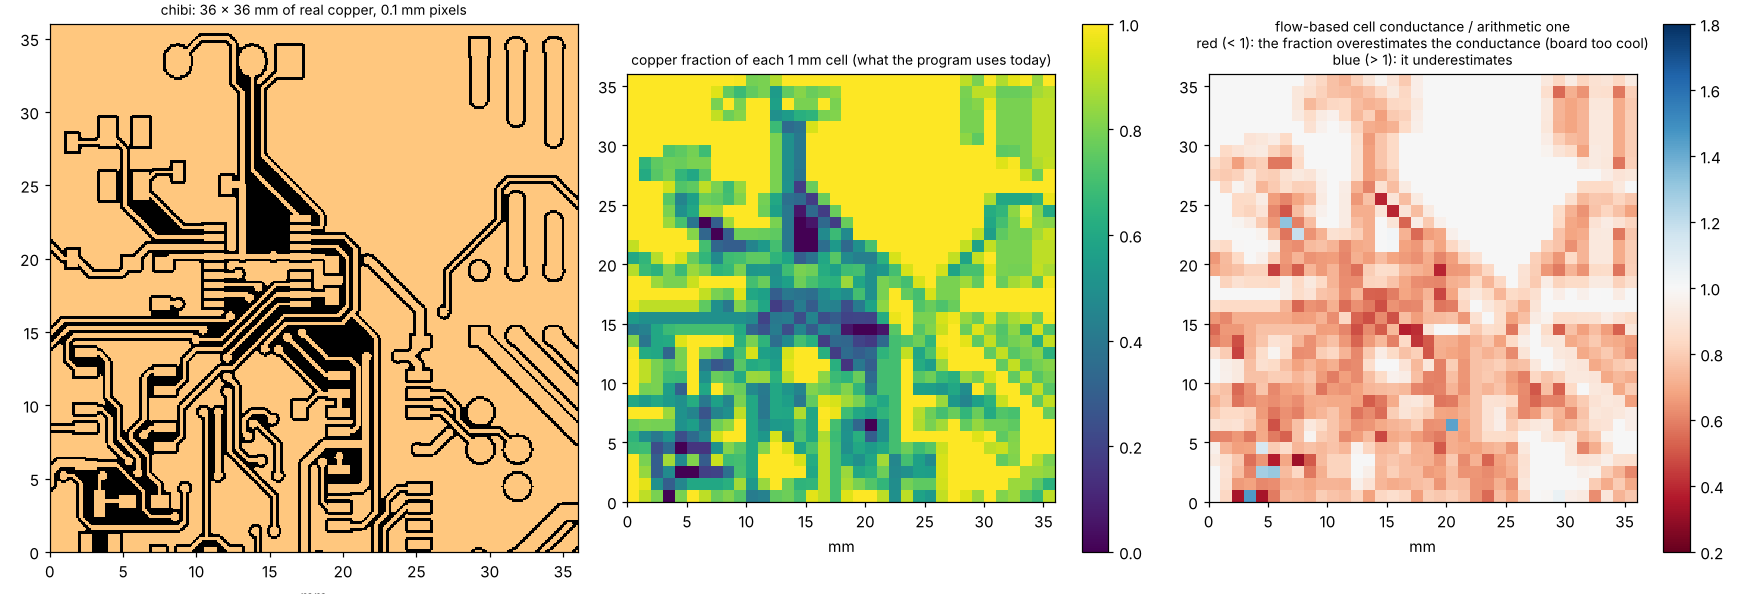
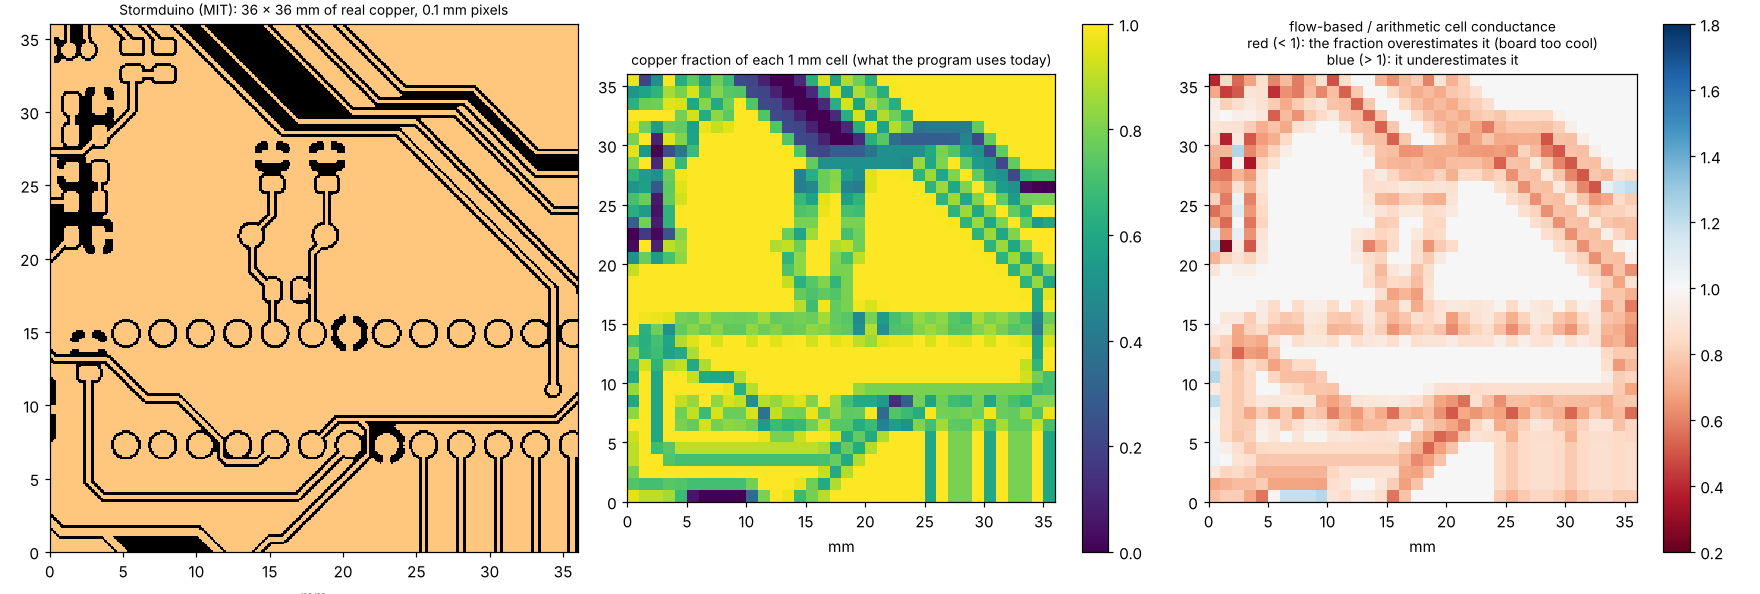
Replace figures 02 and 03 with renders of our own board and an MIT board
Figure 02 now draws a synthetic Gerber of our own with X2 net attributes;
figure 03 uses a window of the MIT-licensed Stormduino board. The
gerbonara test boards (charliewatch-v2, chibi) had licences that could
not be confirmed, so no picture of them is kept. The licence notes in the
README files are updated.

Claude-Session: https://claude.ai/code/session_019ZX1Fbuj3xr3RpZFuubYJe

diff --git a/research/gerbers/make_figures.py b/research/gerbers/make_figures.py
@@ -1,6 +1,6 @@
 """!
 @file make_figures.py
-@brief Pictures of what the research does, written to figures/ (committed, linked from the README files): thin tracks on the pixel grid, nets and the Joule heat of one net on a KiCad board, and the mapping of real copper to cells.
+@brief Pictures of what the research does, written to figures/ (committed, linked from the README files): thin tracks on the pixel grid, nets and the Joule heat of one net on a synthetic board of our own, and the mapping of real copper (a window of the MIT-licensed Stormduino board) to cells.
 @details Needs numpy, scipy, matplotlib, shapely and gerbonara. Run: python make_figures.py
 """
 
@@ -20,7 +20,6 @@ import make_synthetic as ms
 import native_gerber as ng
 import windows
 from study_net_joule import disc, net_pads
-from study_reader_conformance import DEST
 
 OUT = Path(__file__).resolve().parent / "figures"          # kept in the repository on purpose: the README files link to them
 
@@ -69,22 +68,53 @@ def fig_angles():
     plt.close(fig)
 
 
+def synthetic_nets_gerber():
+    """!
+    @brief A small synthetic Gerber of our own with X2 net attributes (`%TO.N,<net>*%` ended by `%TD*%`): three nets on a 40 x 26 mm board, round apertures only, 6 decimals in mm.
+    @details VIN: a 0.8 mm track with a 0.25 mm neck in the middle and a 0.4 mm dead-end spur, a pad at each end; SIG: a 0.3 mm track with a kink, a pad at each end; GND: a 1.6 mm track with three pads.
+    @return Gerber text.
+    """
+    def c(v):
+        """!@brief A length in mm as the integer of a 4.6 coordinate. @param v Length (mm). @return String of digits."""
+        return str(int(round(v * 1e6)))
+
+    def path(points):
+        """!@brief A track through points with the current aperture. @param points List of (x, y) in mm. @return Gerber lines."""
+        out = f"X{c(points[0][0])}Y{c(points[0][1])}D02*\n"
+        return out + "".join(f"X{c(x)}Y{c(y)}D01*\n" for x, y in points[1:])
+
+    def flash(points):
+        """!@brief Flashes of the current aperture. @param points List of (x, y) in mm. @return Gerber lines."""
+        return "".join(f"X{c(x)}Y{c(y)}D03*\n" for x, y in points)
+
+    t = "%FSLAX46Y46*%\n%MOMM*%\n"
+    for num, d in ((10, 0.8), (11, 0.25), (12, 0.4), (13, 2.4), (14, 0.3), (15, 1.6), (16, 1.2)):
+        t += f"%ADD{num}C,{d}*%\n"
+    t += "%TO.N,VIN*%\nD10*\n" + path([(3, 4), (14, 4)]) + "D11*\n" + path([(14, 4), (24, 4)]) + "D10*\n" + path([(24, 4), (37, 4)])
+    t += "D12*\n" + path([(10, 4), (10, 10)]) + "D13*\n" + flash([(3, 4), (37, 4)]) + "%TD*%\n"
+    t += "%TO.N,SIG*%\nD14*\n" + path([(3, 20), (15, 20), (20, 15), (25, 20), (37, 20)]) + "D16*\n" + flash([(3, 20), (37, 20)]) + "%TD*%\n"
+    t += "%TO.N,GND*%\nD15*\n" + path([(3, 12.5), (37, 12.5)]) + "D13*\n" + flash([(3, 12.5), (20, 12.5), (37, 12.5)]) + "%TD*%\n"
+    return t + "M02*\n"
+
+
 def fig_nets():
     """!
-    @brief The top copper of a KiCad board coloured by net, and the potential and Joule heat of one net at 1 A.
+    @brief A synthetic board of our own coloured by net, and the potential and Joule heat of net VIN at 1 A.
     @return None.
     """
-    layer = ng.Layer((DEST / "zero-length-lines__charliewatch-v2.panel-F_Cu.gbr").read_text())
+    layer = ng.Layer(synthetic_nets_gerber())
     bb = layer.bbox()
     pix = 0.05
-    w, h = bb[2] - bb[0] + 0.4, bb[3] - bb[1] + 0.4
-    cv_all = ng.Canvas(bb[0] - 0.2, bb[3] + 0.2, w, h, pix)
+    # Anchor the pixel lattice so that no track edge falls exactly on a pixel centre (a tie that would make a 0.25 mm neck 0.30 mm wide, README 4.23): pixel centres at multiples of 0.05 mm in y and at odd multiples of 0.025 mm in x
+    x_left, y_top = np.floor((bb[0] - 0.2) / pix) * pix, (np.ceil((bb[3] + 0.2) / pix) + 0.5) * pix
+    w, h = bb[2] + 0.2 - x_left, y_top - (bb[1] - 0.2)
+    cv_all = ng.Canvas(x_left, y_top, w, h, pix)
     layer.draw(cv_all)
     lab, ncomp = ndimage.label(cv_all.mask)
     nets = layer.net_names()
     owner = {}
     for net in nets:
-        cv = ng.Canvas(bb[0] - 0.2, bb[3] + 0.2, w, h, pix)
+        cv = ng.Canvas(x_left, y_top, w, h, pix)
         layer.draw(cv, [net])
         for c in np.unique(lab[cv.mask & (lab > 0)]):
             owner.setdefault(int(c), set()).add(net)
@@ -98,10 +128,10 @@ def fig_nets():
     cols = np.vstack([[0.08, 0.08, 0.08, 1], [cm[k % 20] for k in range(len(nets))], [[0.55, 0.55, 0.55, 1]]])
     fig, axs = plt.subplots(1, 3, figsize=(16, 5.6))
     ext = (cv_all.x0, cv_all.x0 + lab.shape[1] * pix, cv_all.y0 - lab.shape[0] * pix, cv_all.y0)
-    axs[0].imshow(img, cmap=ListedColormap(cols), interpolation="nearest", extent=ext)
-    axs[0].set_title(f"top copper of a KiCad board: {len(nets)} nets (colours)\ngrey = copper with no net (a 428 mm2 zone fill)", fontsize=9)
-    # Joule heat of one net: the largest piece of X9 with two or more pads, between its two farthest pads, 1 A
-    net = "Board_0-/X9"
+    axs[0].imshow(img, cmap=ListedColormap(cols), vmin=0, vmax=len(cols) - 1, interpolation="nearest", extent=ext)      # fixed limits: a net keeps its colour whichever labels occur
+    axs[0].set_title(f"synthetic board with X2 net attributes: {len(nets)} nets (colours), grey would be copper with no net", fontsize=9)
+    # Joule heat of one net: the largest piece of VIN with two or more pads, between its two farthest pads, 1 A
+    net = "VIN"
     pads = np.array(net_pads(layer, net))
     pieces = [c for c, v in owner.items() if v == {net}]
     sizes = np.bincount(lab.ravel())
@@ -117,7 +147,7 @@ def fig_nets():
     y0, y1, x0, x1 = max(ys.min() - 20, 0), ys.max() + 20, max(xs.min() - 20, 0), xs.max() + 20
     ext2 = (cv_all.x0 + x0 * pix, cv_all.x0 + x1 * pix, cv_all.y0 - y1 * pix, cv_all.y0 - y0 * pix)
     im = axs[1].imshow(np.where(mask, v, np.nan)[y0:y1, x0:x1], cmap="viridis", interpolation="nearest", extent=ext2)
-    axs[1].set_title(f"net {net.split('-')[-1]}: potential at 1 A, R = {r * 1000:.0f} mOhm (35 um copper)", fontsize=9)
+    axs[1].set_title(f"net {net}: potential at 1 A, R = {r * 1000:.0f} mOhm (35 um copper)", fontsize=9)
     fig.colorbar(im, ax=axs[1], label="V")
     im = axs[2].imshow(np.where(mask, q / pix ** 2 * 1000.0, np.nan)[y0:y1, x0:x1], cmap="inferno", interpolation="nearest", extent=ext2, norm=LogNorm(vmin=max(q.max() / pix ** 2 * 1000.0 * 1e-3, 1e-12), vmax=q.max() / pix ** 2 * 1000.0))
     axs[2].set_title(f"Joule heat density, total {q.sum() * 1000:.0f} mW (= I2R); pads are the dots", fontsize=9)
@@ -126,7 +156,7 @@ def fig_nets():
         ax.plot(pa[:, 0], pa[:, 1], "w.", ms=3)
         ax.plot([pa[i][0], pa[j][0]], [pa[i][1], pa[j][1]], "wo", ms=7, mfc="none")
     fig.tight_layout()
-    fig.savefig(OUT / "fig_02_kicad_nets_and_joule.png", dpi=110)
+    fig.savefig(OUT / "fig_02_nets_and_joule.png", dpi=110)
     plt.close(fig)
 
 
@@ -135,8 +165,10 @@ def fig_mapping():
     @brief One real window: the 0.1 mm copper mask, the fill fraction per 1 mm cell (today) and the ratio of the flow-based cell conductance to the arithmetic one.
     @return None.
     """
+    windows.BOARDS = ["storm"]                                          # Stormduino (MIT): the only board whose licence allows a picture of it
+    windows.FILE = windows.OUT / "windows_storm.npz"
     masks, meta = windows.load()
-    k = 9
+    k = 1
     mask = masks[k]
     S = cd.sheet_of(mask[::-1])
     n = 10                                                              # pixels per 1 mm cell
@@ -150,12 +182,12 @@ def fig_mapping():
     arith = cd.map_power(f, 1.0, a, b)
     fig, axs = plt.subplots(1, 3, figsize=(16, 5.4))
     axs[0].imshow(mask, cmap="copper", interpolation="nearest", extent=(0, 36, 0, 36))
-    axs[0].set_title(f"{meta[k][0]}: 36 x 36 mm of real copper, 0.1 mm pixels", fontsize=9)
+    axs[0].set_title("Stormduino (MIT): 36 x 36 mm of real copper, 0.1 mm pixels", fontsize=9)
     im = axs[1].imshow(f[::-1], cmap="viridis", vmin=0, vmax=1, interpolation="nearest", extent=(0, 36, 0, 36))
     axs[1].set_title("copper fraction of each 1 mm cell (what the program uses today)", fontsize=9)
     fig.colorbar(im, ax=axs[1])
     im = axs[2].imshow((flow / arith)[::-1], cmap="RdBu", vmin=0.2, vmax=1.8, interpolation="nearest", extent=(0, 36, 0, 36))
-    axs[2].set_title("flow-based cell conductance / arithmetic one\nred (< 1): the fraction overestimates the conductance (board too cool)\nblue (> 1): it underestimates", fontsize=9)
+    axs[2].set_title("flow-based / arithmetic cell conductance\nred (< 1): the fraction overestimates it (board too cool)\nblue (> 1): it underestimates it", fontsize=9)
     fig.colorbar(im, ax=axs[2])
     for ax in axs:
         ax.set_xlabel("mm")

diff --git a/research/gerbers/README.md b/research/gerbers/README.md
@@ -61,7 +61,7 @@ knows only one number per cell and layer: the **fraction of copper** (and, for a
 | `make_synthetic.py`, `compare_readers.py` | Files of known area made with gerbonara, and the comparison with gerbonara, pygerber and pcb-tools (4.22). Needs `pip install gerbonara pygerber pcb-tools shapely pillow`. |
 | `study_gerber_writer.py` | Files written with Ucamco's `gerber-writer` (thermal pads, arcs, regions) read by the reader and gerbonara (4.24). Needs `pip install gerber-writer`. |
 | `study_angles.py`, `make_figures.py` | Tracks at any angle: area, connectivity, resistance (4.23); `make_figures.py` writes the pictures to `figures/`. |
-| `figures/` | The pictures, named `fig_NN_topic.png` in order of creation (committed on purpose, the README files link to them): 01 angles on the pixel grid, 02 KiCad nets and Joule heat, 03 copper mapping to cells. |
+| `figures/` | The pictures, named `fig_NN_topic.png` in order of creation (committed on purpose, the README files link to them): 01 angles on the pixel grid (our own synthetic tracks), 02 nets and Joule heat (our own synthetic board with X2 net attributes), 03 copper mapping to cells (a window of the Stormduino board, MIT). |
 | `scenarios.py`, `study_sampson_boundary.py` | Boundary-limited scenarios: fixed-temperature posts or border, no convection, stripes and 42 windows (4.25). |
 | `CONCLUSIONS.md` | The conclusions, the comparison with the three articles, the table of validated numbers with the test of each claim, the limits and the decisions left open. |
 | `study_coverage.py`, `study_coverage_real.py`, `study_models_self.py`, `study_post_board.py`, `study_vias_nets.py`, `nets.py`, `boards_synthetic.py` | Coverage masks (4.26), every model of the program (4.27), the post-mounted board analogue (4.28), vias and nets (4.29); the synthetic board generator. |
@@ -122,9 +122,9 @@ The reference also depends a little on the pixel (single layer, 5 x 5 mm heater)
 
 ### 4.4 The mappings on 42 windows (`study_mapping.py`)
 
-![Figure 3: a real 36 mm window, the copper fraction per 1 mm cell and the ratio of the flow-based to the arithmetic cell conductance](figures/fig_03_copper_mapping_to_cells.png)
+![Figure 3: a 36 mm window of the Stormduino board, the copper fraction per 1 mm cell and the ratio of the flow-based to the arithmetic cell conductance](figures/fig_03_copper_mapping_to_cells.png)
 
-*Figure 3 (`figures/fig_03_copper_mapping_to_cells.png`): window of the `chibi` board; the fraction of copper per 1 mm cell (what the program uses today) and where the flow-based conductance is lower (red) or higher (blue) than the arithmetic one.*
+*Figure 3 (`figures/fig_03_copper_mapping_to_cells.png`): a window of the top copper of the Stormduino board (Stormduino Rev 2.2, MIT licence, https://github.com/Chromico/stormduino, downloaded by `fetch_boards.py storm`; window 2 of the fixed-seed set); the fraction of copper per 1 mm cell (what the program uses today) and where the flow-based conductance is lower (red) or higher (blue) than the arithmetic one.*
 
 Methods (all give the face conductances the solver uses; for the first four the face is the harmonic mean of the two cells, as the FVM does):
 
@@ -345,11 +345,11 @@ Only copper layers and drills matter for the program (silkscreen, mask, paste an
 
 **The heat of a net.** With the net mask, the sheet resistance `Rs = rho / t` (copper 1.68e-8 ohm m at 20 °C, +0.393 %/K) and two terminals, `joule.solve_net` solves div(grad V / Rs) = 0 on the pixels (4-connected, face conductance 1/Rs, harmonic mean when `Rs` varies) and returns the resistance, the potential and the Joule power of every pixel, whose sum is exactly `I²R`. `joule.to_cells` sums it into the cells of the thermal grid (the total is conserved), which is exactly the heat source the models need. Checks (6 tests): a strip gives `Rs (L-1)/W` to 1e-9, a width step is a series circuit (within 3 %, the constriction adds a spreading term), parallel strips, the cell sum, and unconnected or overlapping terminals are refused.
 
-![Figure 2: KiCad top copper coloured by net, potential and Joule heat of one net at 1 A](figures/fig_02_kicad_nets_and_joule.png)
+![Figure 2: a synthetic board with X2 net attributes coloured by net, potential and Joule heat of net VIN at 1 A](figures/fig_02_nets_and_joule.png)
 
-*Figure 2 (`figures/fig_02_kicad_nets_and_joule.png`): left, the nets of a KiCad board (grey: a zone fill with no net); middle and right, potential and Joule heat density of net `/X9` at 1 A; the dead-end spur carries no current (black).*
+*Figure 2 (`figures/fig_02_nets_and_joule.png`): a small synthetic Gerber of our own (`make_figures.synthetic_nets_gerber`, 40 x 26 mm, three nets written with the X2 attribute `%TO.N,<net>*%` ended by `%TD*%`). Left, the three nets (VIN, SIG, GND) found by the reader; middle and right, potential and Joule heat density of net VIN at 1 A between its two pads (35 µm copper): R = 32 mΩ and 32 mW (30.7 to 32.4 mΩ for pixels of 0.0125 to 0.05 mm; by hand 70 squares of 0.48 mΩ = 34 mΩ, 32 mΩ when the 2.4 mm of track under the end pads is left out). The heat sits in the 0.25 mm neck and the 0.4 mm dead-end spur carries no current (black). The pixel lattice is anchored so that no track edge falls on a pixel centre; otherwise the neck is drawn 0.30 mm wide and R is 29 mΩ (section 4.23).*
 
-On the KiCad panel (1 A, 35 µm copper, terminals on the two farthest pads of the largest piece of each net): the signal nets of 22 mm span give 80 mΩ (81 mW at 1 A, hottest 1 mm cell 3.6 mW), a 11.6 mm net 31 mΩ, the GND piece of 388 mm² 4.6 mΩ (hottest cell 0.2 mW). Quick sanity check: 0.2 mm tracks of 22 mm are 110 squares of 0.5 mΩ, about 55 mΩ before the pads and bends.
+On a real KiCad panel (the `charliewatch-v2` files of gerbonara's test set, used here for statistics only, not drawn; 1 A, 35 µm copper, terminals on the two farthest pads of the largest piece of each net): the signal nets of 22 mm span give 80 mΩ (81 mW at 1 A, hottest 1 mm cell 3.6 mW), a 11.6 mm net 31 mΩ, the GND piece of 388 mm² 4.6 mΩ (hottest cell 0.2 mW). Quick sanity check: 0.2 mm tracks of 22 mm are 110 squares of 0.5 mΩ, about 55 mΩ before the pads and bends.
 
 **Is it possible in the future? Yes**, and the pieces exist; what is missing, in order: (1) the current of the net (a number from the user, a table by net, or later the output of an electrical solve); (2) the terminals (which pads source and sink the current; for a power net with several loads, a list of currents per pad, solved as one Laplace problem with several sinks); (3) the vias and plated holes joining layers (the same Laplace problem on a stack, with the via barrel resistance); (4) the coupling with temperature, `rho(T)`: a fixed-point loop between the electrical and the thermal solve (the program already has such a loop for the power coefficient, `api._solve_with_tc`); (5) the user interface (pick a net, enter the current, see the heat map and the voltage drop). The voltage drop and the hot spots (current crowding at a neck) come out of the same solve.
 
@@ -551,7 +551,7 @@ The files are **not** in the repository (`data/` is git-ignored). `fetch_boards.
 | Key | Board | Licence (as stated by the source) |
 | :-- | :-- | :-- |
 | `storm` | Stormduino Rev 2.2, an Arduino Uno clone (KiCad), 68.6 x 53.4 mm, 2 layers | MIT |
-| `chibi` | chibi_2024 (KiCad), 100 x 78 mm | CC BY-SA |
+| `chibi` | chibi_2024 (KiCad), 100 x 78 mm (https://github.com/jaseg/7segstuff) | "CC BY-SA" as copied from the gerbonara test resources; **not confirmed at the source** (no licence file found at the repository root). Used for statistics only; no picture of it is kept |
 | `easyeda` | an EasyEDA export | not stated |
 | `pcbrnd` | epl_isolatedpwr (pcb-rnd) | GPL-2 |
 | `pcad` | zxnet_usb (P-CAD) | GPL-3 |
@@ -559,7 +559,7 @@ The files are **not** in the repository (`data/` is git-ignored). `fetch_boards.
 | `fritz` | analog_gyro_2021 (Fritzing) | MIT |
 | `alleg` | a 4-layer Cadence Allegro board (tracespace issue 371), inches | not stated |
 
-All but the Stormduino come from the test resources of gerbonara (https://gitlab.com/gerbolyze/gerbonara), each with the licence of its own folder.
+All but the Stormduino come from the test resources of gerbonara (https://gitlab.com/gerbolyze/gerbonara), each with the licence of its own folder; the licences of those folders could not be read or confirmed at their sources, so **no picture of any of them is kept in the repository** (the figures use our own synthetic boards and the MIT-licensed Stormduino).
 
 ## 10. Sources
 

diff --git a/research/gerbers/docs/research.md b/research/gerbers/docs/research.md
@@ -40,10 +40,10 @@ Branch `research/gerbers`; scripts, tests, tables, sources and the design of the
 * **Other tools** (`compare_readers.py`, 4.22): on 14 gerbonara-written files of known area the independent reader gives the same raster as gerbonara + shapely and as pcb-tools above 50 %; the error is the pixel, not the reader. A grey-level coverage (pcb-tools) keeps 4.4 % where binary masks give 22 % at 0.1 mm: render finer and average, to test in the conduction solver. pygerber is strict (did not parse any file written by gerbonara without cleaning) and slower; pcb-tools was 63 % low on real boards.
 * **Angles** (`study_angles.py`, 4.23): area exact except ±6 % at exactly 45° on the lattice; a track as narrow as the pixel breaks into pieces with 4-connectivity (one piece with 8-connectivity); the five-point conduction stencil is too resistive for tilted thin tracks (1.6 at 2 px across, 1.06 to 1.13 at 12 to 6 px), the nine-point one is angle-independent but biased (+4 % at 8 px). For nets: connectivity from 8-connected labelling or the vector geometry, pixel at least 8 to 10 across the thinnest track for resistances.
 
-Pictures (in `../figures/`): `fig_01_angles_pixel_grid.png` (thin tracks at an angle on the pixel grid), `fig_02_kicad_nets_and_joule.png` (nets of a KiCad board, potential and Joule heat of one net), `fig_03_copper_mapping_to_cells.png` (real copper, fraction per cell, flow-based against arithmetic conductance).
+Pictures (in `../figures/`): `fig_01_angles_pixel_grid.png` (thin tracks at an angle on the pixel grid), `fig_02_nets_and_joule.png` (a synthetic board with X2 net attributes: nets, potential and Joule heat of one net), `fig_03_copper_mapping_to_cells.png` (a window of the Stormduino board, MIT: fraction per cell, flow-based against arithmetic conductance).
 
 ![thin tracks on the pixel grid](../figures/fig_01_angles_pixel_grid.png)
-![nets and Joule heat](../figures/fig_02_kicad_nets_and_joule.png)
+![nets and Joule heat](../figures/fig_02_nets_and_joule.png)
 ![copper mapping to cells](../figures/fig_03_copper_mapping_to_cells.png)
 * **Ucamco page and gerber-writer** (4.24): the format page confirms net names and aperture functions as standard attributes and mentions the job file (stack-up data: idea, not checked); files written with `gerber-writer` (thermal pads, arcs) are read within 0.1 % of the exact area, gerbonara was 8.6 % low on the arc file; attributes written as `G04 #@!` comments are now understood.
 * **Conclusions** compiled in `../CONCLUSIONS.md` (README 4.25 adds the boundary-limited regime of Sampson: fill fraction 22.6 % cool on real windows with the border held and no convection, flow-based faces 2.3 %; stripes: -49 % across, scalar mappings fail in one direction, directional mappings +6 to +7.5 %); 58 tests including `tests/test_claims.py`.

diff --git a/research/README.md b/research/README.md
@@ -11,4 +11,4 @@ Studies that are not part of the program. Rule (maintainer, 2026-10-23): on a re
 | `gerbers/docs/literature.md` | Literature status: what was read, what only in a summary, what is from memory. |
 | `gerbers/docs/roadmap-entry.md` | The roadmap line for when the work is adopted. |
 
-**Pictures.** Figures of an investigation are kept in `research/<topic>/figures/`, named `fig_NN_topic.png` with NN in order of creation, generated by a script in the folder (`make_figures.py`), and linked from the README files with a relative Markdown link, `![caption](figures/fig_NN_topic.png)`, followed by an italic line with the file name. They are committed on purpose (the maintainer's rule, 2026-10-23); other generated outputs stay out of git. **Licence caveat:** figures 02 and 03 are renders of copper from third-party boards (the KiCad `charliewatch-v2` panel from gerbonara's test resources, and `chibi`); the boards themselves are never committed, but check the boards' licences before publishing the pictures outside the repository.
+**Pictures.** Figures of an investigation are kept in `research/<topic>/figures/`, named `fig_NN_topic.png` with NN in order of creation, generated by a script in the folder (`make_figures.py`), and linked from the README files with a relative Markdown link, `![caption](figures/fig_NN_topic.png)`, followed by an italic line with the file name. They are committed on purpose (the maintainer's rule, 2026-10-23); other generated outputs stay out of git. **Licence of the pictures:** figures 01 and 02 come from our own synthetic boards, and figure 03 from the Stormduino board (MIT, https://github.com/Chromico/stormduino, with attribution in its caption). The earlier versions of figures 02 and 03 rendered boards of gerbonara's test resources (`charliewatch-v2`, `chibi`) whose licences could not be confirmed at their sources, so they were replaced. Boards used only to compute statistics stay in the git-ignored `data/` and are never committed. Before adding a figure of a third-party board, read its licence at the source and note it in the caption.

diff --git a/research/gerbers/INTEGRATION.md b/research/gerbers/INTEGRATION.md
@@ -49,7 +49,7 @@ def pattern_mask(kind, pitch, fill, polygon, pixel):    # hatch lines, cross-hat
 
 ### Do the current models have to change?
 
-Only where the cell conductances are read, and only when imported copper exists. Without imported copper nothing changes: the zones, the fill formula and every test stay as they are. With it: `fvm.py`, `fdm.py` and `solid3d.py` take the face conductances of the layer from the mask instead of the harmonic mean of the cell values (about one function each, the matrices keep their shape and the solvers are untouched); `lumped.py` needs nothing, it already reads `net.S` of the FVM network; `analytic.py` gets one effective conductance per layer (influence-weighted geometric-type mean) instead of the average fraction. A heat source from a net (`joule.py`, `README.md` 4.20, picture: `figures/fig_02_kicad_nets_and_joule.png`) enters as ordinary power per cell and needs no model change at all.
+Only where the cell conductances are read, and only when imported copper exists. Without imported copper nothing changes: the zones, the fill formula and every test stay as they are. With it: `fvm.py`, `fdm.py` and `solid3d.py` take the face conductances of the layer from the mask instead of the harmonic mean of the cell values (about one function each, the matrices keep their shape and the solvers are untouched); `lumped.py` needs nothing, it already reads `net.S` of the FVM network; `analytic.py` gets one effective conductance per layer (influence-weighted geometric-type mean) instead of the average fraction. A heat source from a net (`joule.py`, `README.md` 4.20, picture: `figures/fig_02_nets_and_joule.png`) enters as ordinary power per cell and needs no model change at all.
 
 ### What each model does
 
